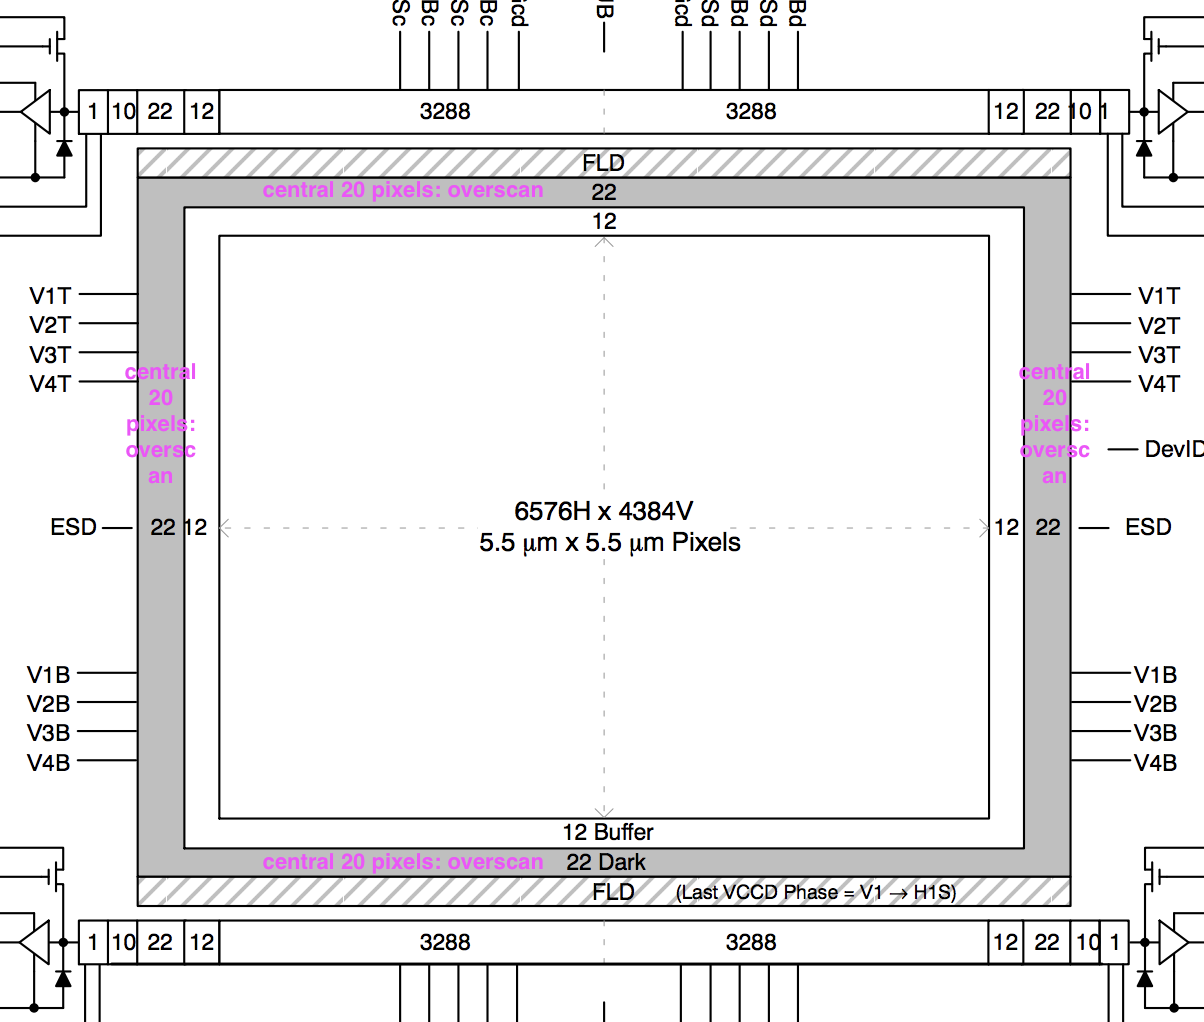
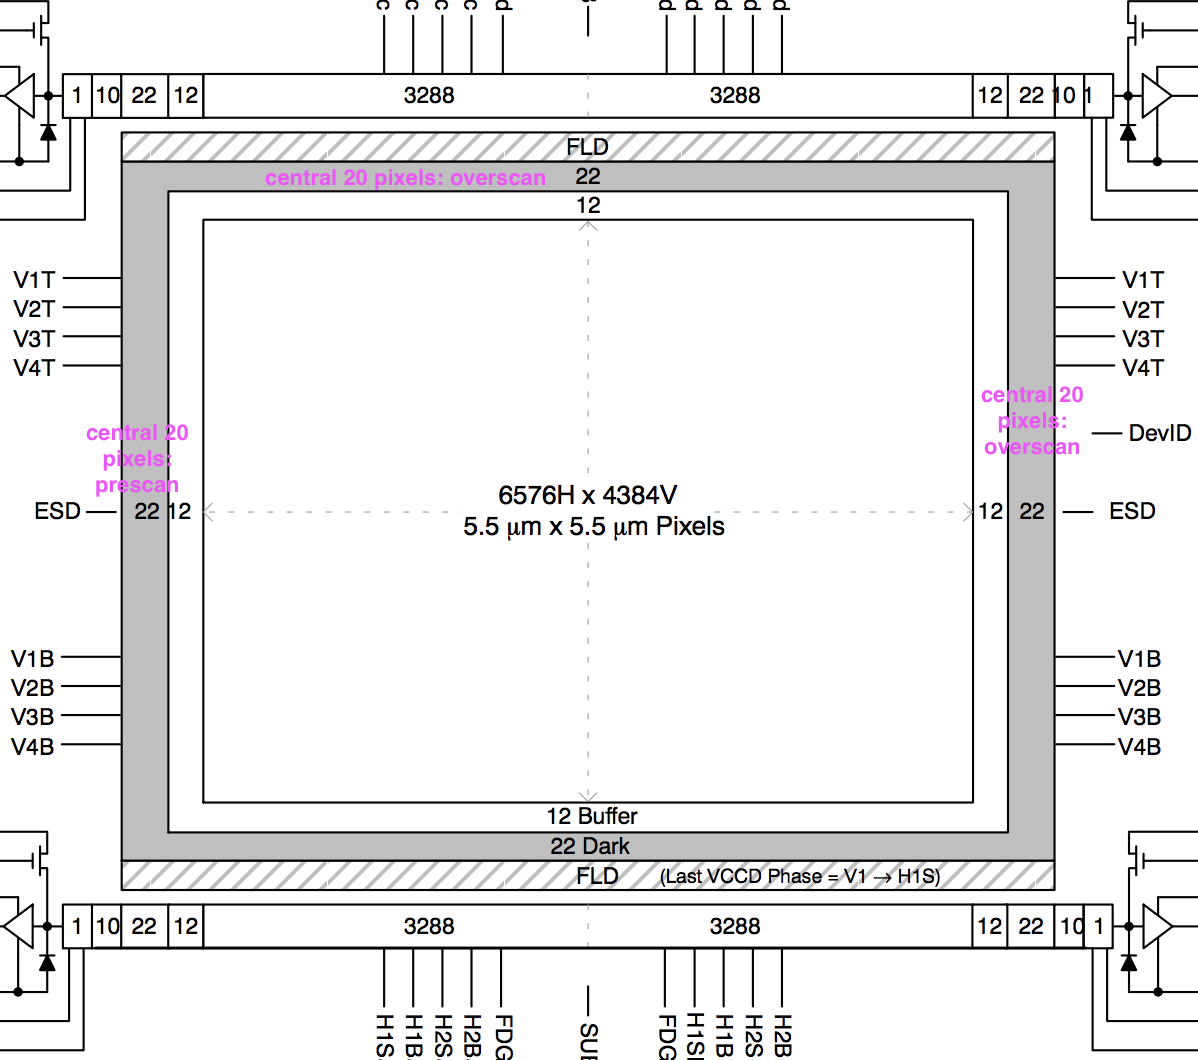
update buildDetector.py & ccd0_superbit.fits(for 1amp)

Changed region(s): [[0.0, 0.0, 1.0, 1.0], [0.3706, 0.455, 0.6177, 0.546], [0.4942, 0.0, 0.525, 0.0303]]

diff --git a/camera/buildDetector.py b/camera/buildDetector.py
@@ -2,77 +2,57 @@ import lsst.afw.table as afwTable
 import lsst.afw.geom as afwGeom
 import numpy as np
 
-# This is the readout noise and gain of our amps: 
-readout = [[12,12,12,12]]
-gain_all = [[0.53,0.54,0.54,0.54],[0.52,0.52],[0.59,0.59]]  ##not sure the value
+# This is copying from afw/tests/testAmpInfoTable.py:
+readout = [[12]]
+gain_all = [[0.31]]
 
 def addAmp(ampCatalog,i,rN,gain_s):
-
     #Record the new amp:
     record = ampCatalog.addNew()
 
     #This needs to be the full dimension of what your amp outputs,
     #including overscan, any dummy pixels etc etc.:
-    width = 3333
-    height = 2227
+    width = 6665
+    height = 4453
 
-    os = 20   #pixels of overscan
-
+    os = 20 #pixels of overscan
+    
     #This is the dimensions of the active region of your amp:
-    bbox = afwGeom.Box2I(afwGeom.Point2I(0, 0), afwGeom.Extent2I(3288, 2192))
-
-    #If your CCD consists of more than one amp, you'll need to
-    #some of them (i.e., the one on the right is shifted by X pixels)
-    bbox.shift(afwGeom.Extent2I(3288*1 if (i==1 or i==3) else 0, 2192*1 if (i==2 or i==3) else 0))
-
-    #Define the gain, saturation and readout noise:
+    bbox = afwGeom.Box2I(afwGeom.Point2I(0, 0), afwGeom.Extent2I(6576, 4384))
+    
+    #we only have one amp, no need to shift
+    #bbox.shift(afwGeom.Extent2I(4088*i,0))
+    
     gain = gain_s
-    saturation = 65535  ##not sure
+    saturation = 20000
     readNoise = rN
-
-    #Which corner is the data read out from?
-    readoutCorner = afwTable.LL if i == 0 else afwTable.LR
-
-    #I don't worry about linearity; maybe I should...
+    
+    readoutCorner = afwTable.LL
     linearityCoeffs = (1.0, np.nan, np.nan, np.nan)
     linearityType = "None"
     
     #This defines the full output dimensions of your amp:
-    ##for the top amp, there are only y=height-1 pixels, for the right amps, x=width-1 pixels
-    rawBBox = afwGeom.Box2I(afwGeom.Point2I(0,0), afwGeom.Extent2I(width if (i==0 or i==2) else width-1,height if (i==0 or i==1) else height-1))
-    rawXYOffset = afwGeom.Extent2I(0,0)
 
-    #This defines the data region. Here, there are 45 pixels to the
-    #left of the the left amps that don't take data. There are 35 pixels
-    #on  bottom of the amps that don't take data.
-    
-    rawDataBBox = afwGeom.Box2I(afwGeom.Point2I(45 if (i==0 or i ==2) else 0, 35 if (i==0 or i ==1) else 0), afwGeom.Extent2I(3288,2192))
-    # These are 20 pixels to the left of the left anmp
-    #(12 pixel in) and 20 pixels (11pixels in) to the right of the right amp. The overscan runs the
-    #full top to bottom length of the detector.
-    #rawHorizontalOverscanBBox = afwGeom.Box2I(afwGeom.Point2I(1 if i==0 else width-os-1, 0), afwGeom.Extent2I(os, height))
-    rawHorizontalOverscanBBox = afwGeom.Box2I(afwGeom.Point2I(12 if (i==0 or i==2) else width-os-12, 0), afwGeom.Extent2I(os, height if (i==0 or i==1) else height-1))
-    # These are 20 pixels to the top of the top anmp
-    #(1 pixel in) and 20 pixels (2pixels in) to the bottom of the bottom amp. The overscan runs the
-    #full left to right length of the detector.
-    rawVerticalOverscanBBox = afwGeom.Box2I(afwGeom.Point2I(0, 2 if (i==0 or i==1) else height-os-2), afwGeom.Extent2I(width if (i==0 or i==2) else width-1, os))
-    ##no prescan
-    rawPrescanBBox = afwGeom.Box2I(afwGeom.Point2I(0, 0), afwGeom.Extent2I(0, 0))
+    rawBBox = afwGeom.Box2I(afwGeom.Point2I(0, 0), afwGeom.Extent2I(width,height))
+    rawXYOffset = afwGeom.Extent2I(0, 0)
+    rawDataBBox = afwGeom.Box2I(afwGeom.Point2I(45  , 35), afwGeom.Extent2I(6576,4384))
+    rawHorizontalOverscanBBox = afwGeom.Box2I(afwGeom.Point2I(6634 , 0), afwGeom.Extent2I(os, height))
+    rawVerticalOverscanBBox = afwGeom.Box2I(afwGeom.Point2I(0, 4432), afwGeom.Extent2I(width, os))
+    rawPrescanBBox = afwGeom.Box2I(afwGeom.Point2I(12, 0), afwGeom.Extent2I(os, height))
     emptyBox = afwGeom.BoxI()
 
-    #Shift the right amp to the right by the full width:
-    shiftp = afwGeom.Extent2I((width)*1 if (i==1 or i==3) else 0,(height)*1 if (i==2 or i==3) else 0)
-    rawBBox.shift(shiftp)
-    rawDataBBox.shift(shiftp)
-    rawHorizontalOverscanBBox.shift(shiftp)
-    rawVerticalOverscanBBox.shift(shiftp)
+    ##Don't need to shift since we only have one amp
+    #shiftp = afwGeom.Extent2I((width)*i,0)
+    #rawBBox.shift(shiftp)
+    #rawDataBBox.shift(shiftp)
+    #rawHorizontalOverscanBBox.shift(shiftp)
     
     #Add the defined information to the amp record:
     record.setHasRawInfo(True) #Sets the first Flag=True
     record.setRawFlipX(False)  #Sets the second Flag=False
     record.setRawFlipY(False)  #Sets the third Flag=False
     record.setBBox(bbox)
-    record.setName('left' if i == 0 else ("right" if i==1 else ("top left" if i==2 else "top right")))
+    record.setName('left')
     record.setGain(gain)
     record.setSaturation(saturation)
     record.setReadNoise(readNoise)
@@ -84,27 +64,27 @@ def addAmp(ampCatalog,i,rN,gain_s):
     record.setRawDataBBox(rawDataBBox)
     record.setRawHorizontalOverscanBBox(rawHorizontalOverscanBBox)
     record.setRawVerticalOverscanBBox(rawVerticalOverscanBBox)
-    record.setRawPrescanBBox(emptyBox)
+    record.setRawPrescanBBox(rawPrescanBBox)
 
 def makeCcd(ccdId):
     '''
-    Make a CCD out of a set of amps
-    Remove the for loop if you only have one amp
-    per CCD.
+        Make a CCD out of a set of amps
+        Remove the for loop if you only have one amp
+        per CCD.
     '''
     schema = afwTable.AmpInfoTable.makeMinimalSchema()
     ampCatalog = afwTable.AmpInfoCatalog(schema)
-    for i in range(4):
+    for i in range(1):
         addAmp(ampCatalog, i,readout[ccdId][i],gain_all[ccdId][i])
     return ampCatalog.writeFits('ccd%s_superbit.fits' %ccdId)
-        
+
 def main():
     '''
-    Make a set of CCDs.
-    Remove the for loop if you only have one CCD.
+        Make a set of CCDs.
+        Remove the for loop if you only have one CCD.
     '''
     for i in range(1):
         camera = makeCcd(i)
-            
+
 if __name__ == "__main__":
     main()
